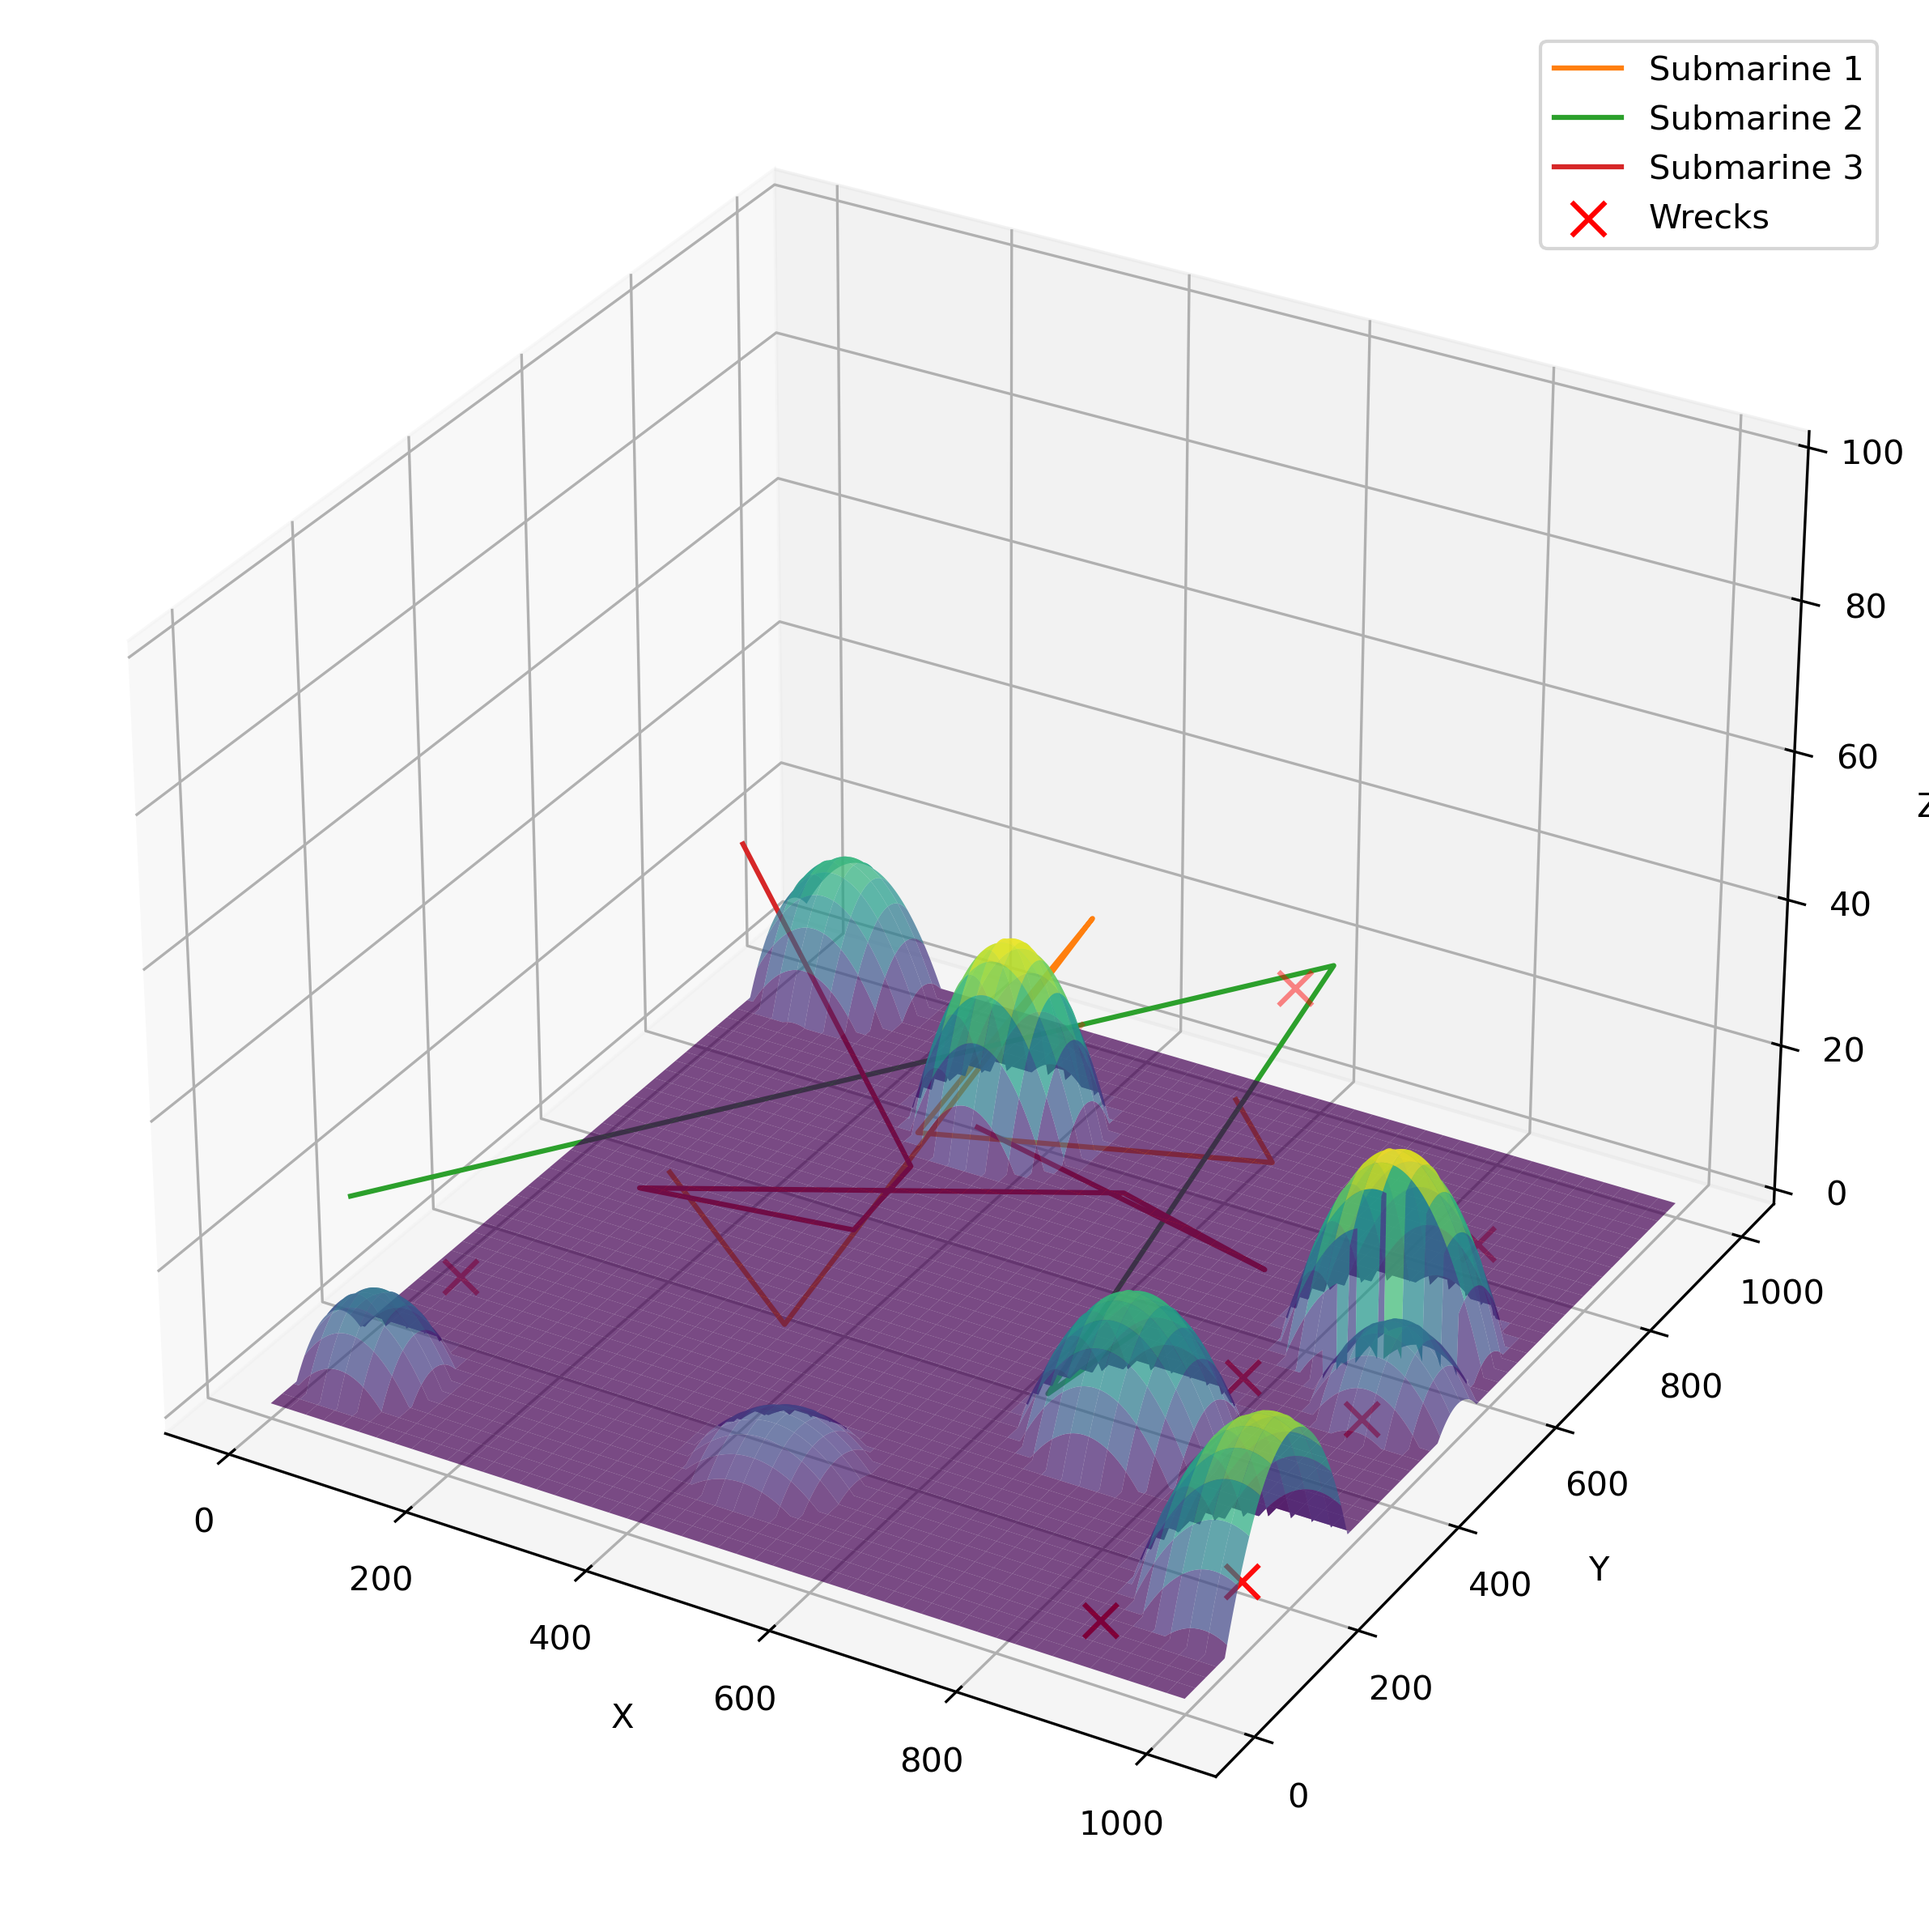
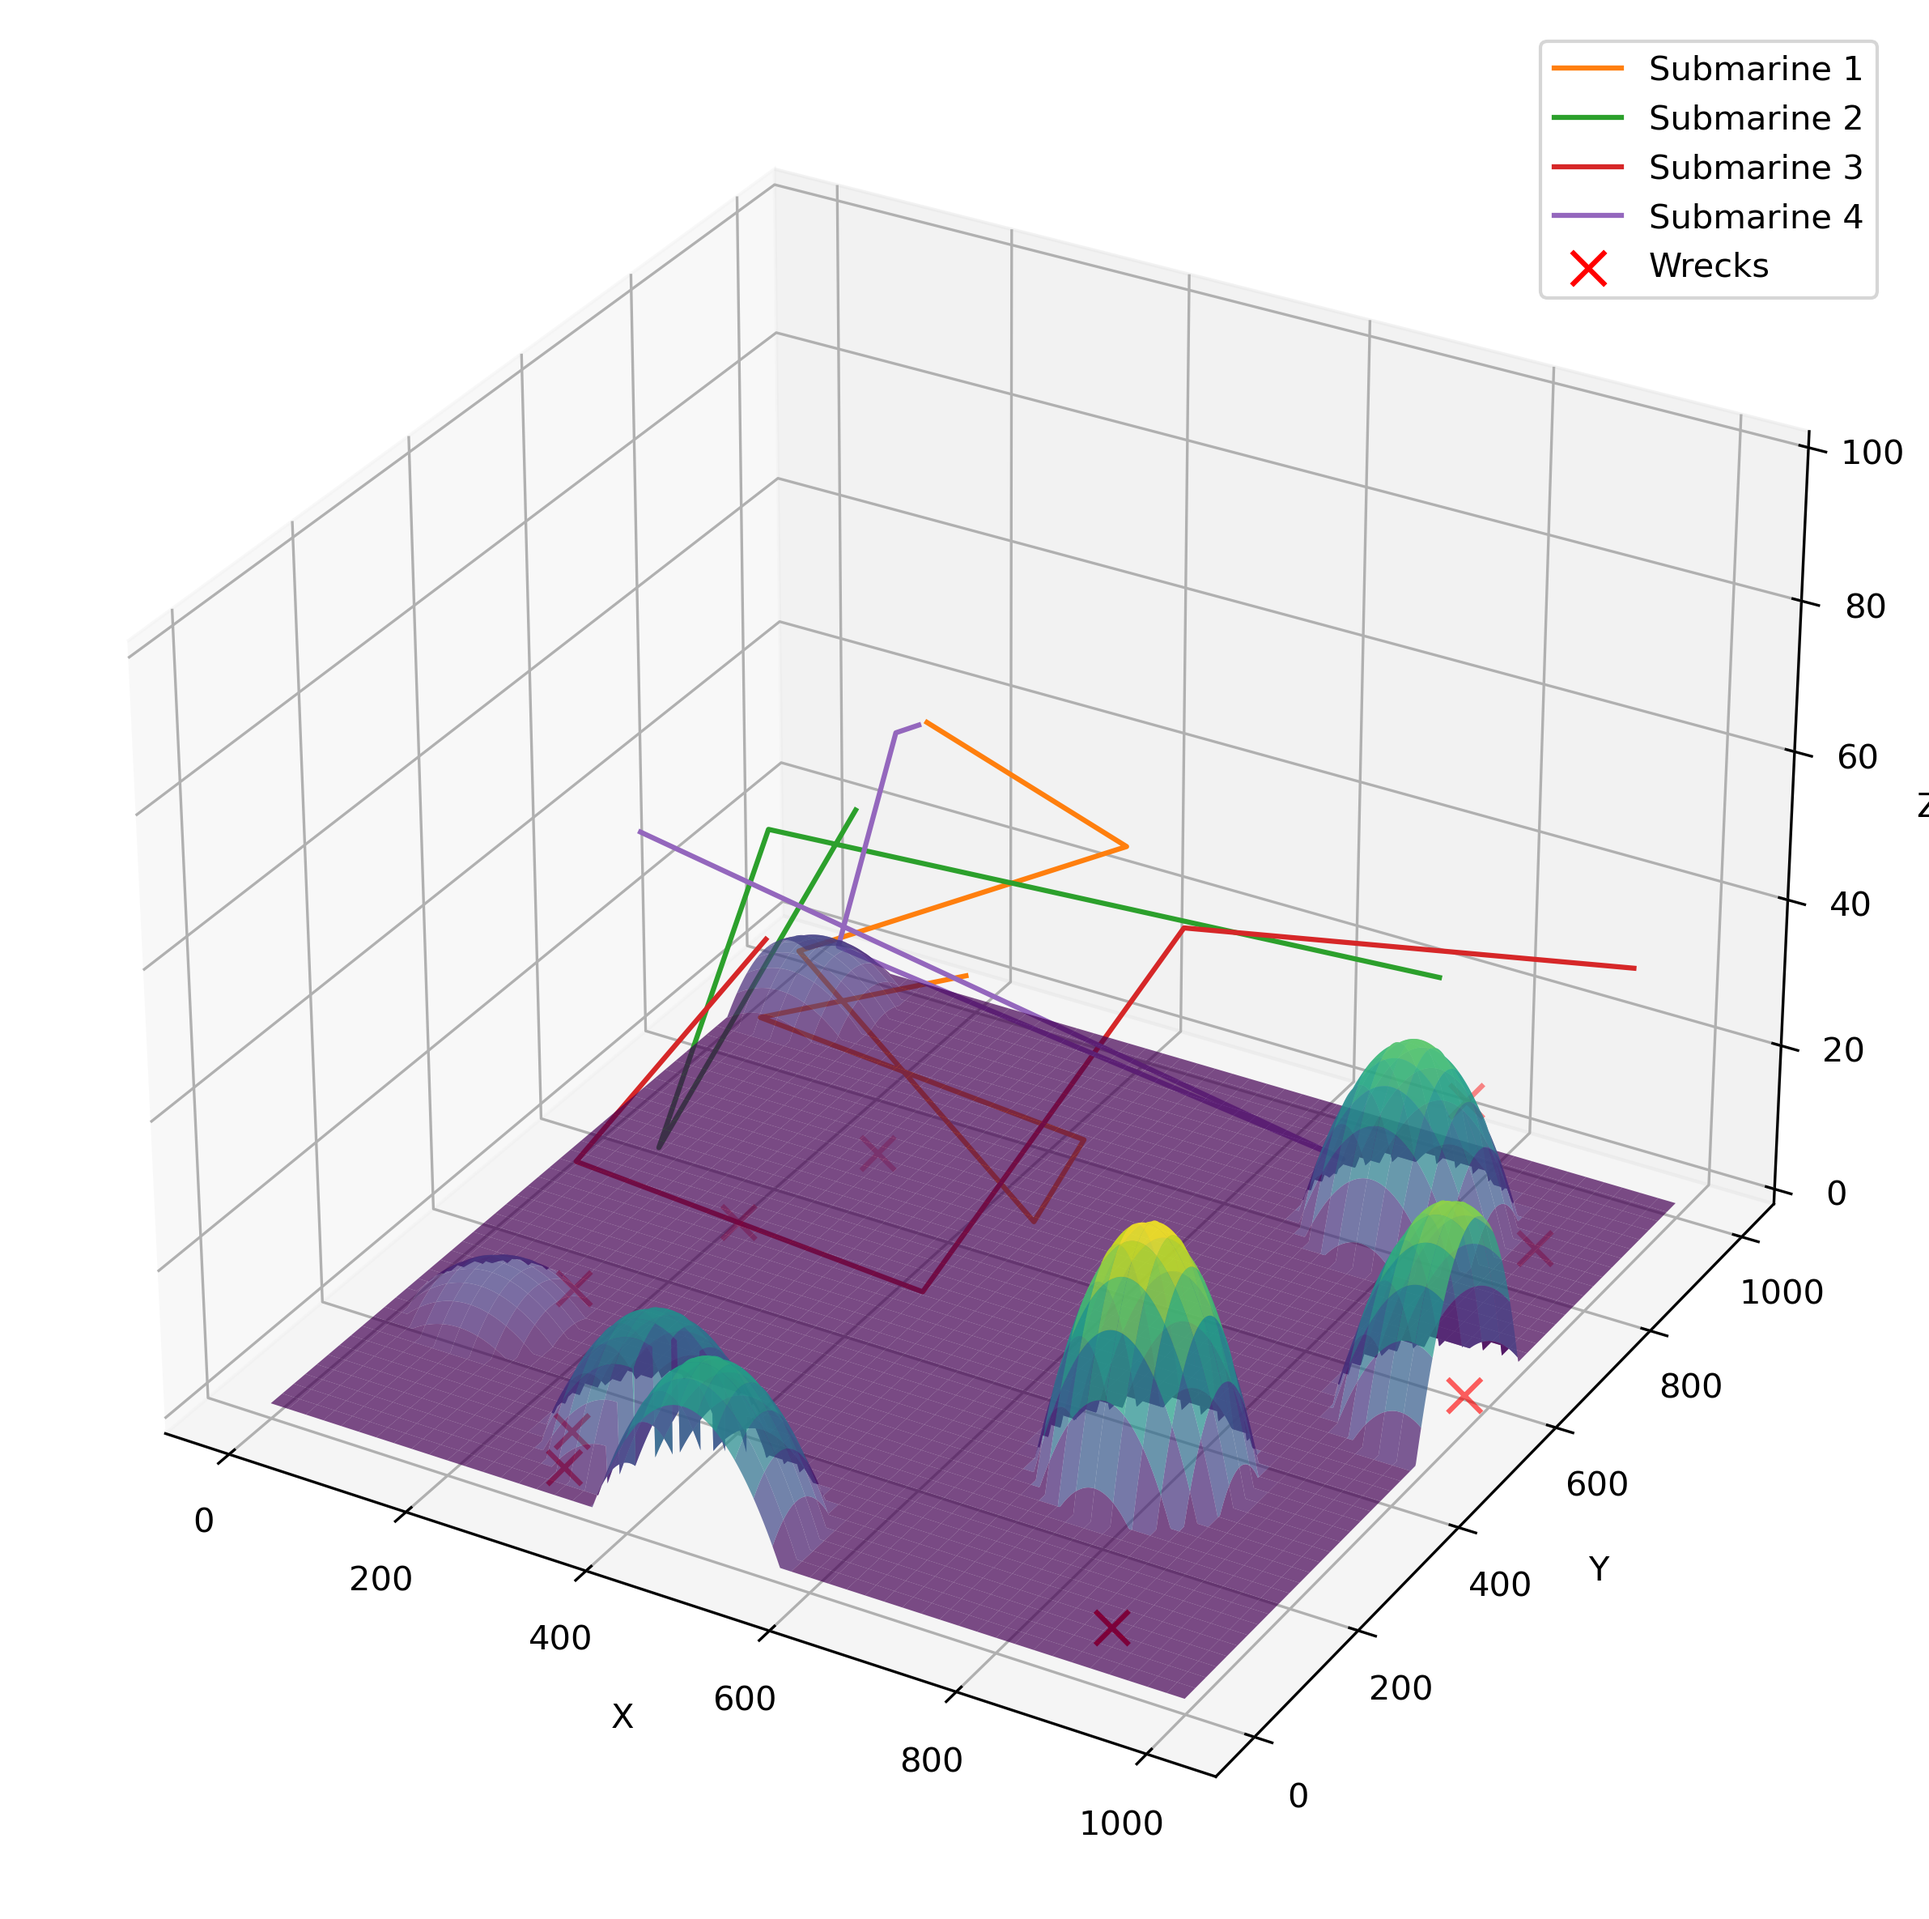
remove redundant files

diff --git a/cmd/run.go b/cmd/run.go
@@ -26,11 +26,12 @@ to quickly create a Cobra application.`,
 		size, _ := cmd.Flags().GetInt("size")
 		hillsNumber, _ := cmd.Flags().GetInt("hills")
 		wrecksNumber, _ := cmd.Flags().GetInt("wrecks")
+		submarine, _ := cmd.Flags().GetInt("submarine")
 
-		fmt.Printf("Running simulation with size:%d, hills:%d, wrecks:%d\n", size, hillsNumber, wrecksNumber)
+		fmt.Printf("Running simulation with size:%d, hills:%d, wrecks:%d, submarine:%d\n", size, hillsNumber, wrecksNumber, submarine)
 
 		pythonScript := exec.Command("python3", "./python/main.py", strconv.Itoa(size), strconv.Itoa(hillsNumber),
-			strconv.Itoa(wrecksNumber))
+			strconv.Itoa(wrecksNumber), strconv.Itoa(submarine))
 		_, err := pythonScript.Output()
 
 		if err != nil {
@@ -48,6 +49,7 @@ func init() {
 	runCmd.Flags().Int("size", 1000, "Seafloor size")
 	runCmd.Flags().Int("hills", 8, "Number of hills")
 	runCmd.Flags().Int("wrecks", 8, "Number of wrecks")
+	runCmd.Flags().Int("submarine", 3, "Number of submarine")
 
 	// Cobra supports Persistent Flags which will work for this command
 	// and all subcommands, e.g.:

diff --git a/python/main.py b/python/main.py
@@ -11,19 +11,25 @@ if __name__ == "__main__":
 
     if len(sys.argv) > 1:
         N = int(sys.argv[1])
-        print(f"N: {N}")
+        # print(f"N: {N}")
 
     hills_num = 8
 
     if len(sys.argv) > 2:
         hills_num = int(sys.argv[2])
-        print(f"hills num: {hills_num}")
+        # print(f"hills num: {hills_num}")
 
     wrecks_num = 8
 
     if len(sys.argv) > 3:
         wrecks_num = int(sys.argv[3])
-        print(f"wrecks num: {wrecks_num}")
+        # print(f"wrecks num: {wrecks_num}")
+
+    submarine_num = 3
+
+    if len(sys.argv) > 4:
+        submarine_num = int(sys.argv[4])
+        # print(f"Submarine: {wrecks_num}")
 
     Z = get_random_sea_floor(hills_num)
     add_wrecks(wrecks_num)
@@ -31,7 +37,7 @@ if __name__ == "__main__":
     wrecks = wrecs_coordinates[:]
     max_hill = np.max(Z)
     subs = []
-    for _ in range(3):
+    for _ in range(submarine_num):
         x = random.randint(0, N - 1)
         y = random.randint(0, N - 1)
         ground = Z[x, y]

diff --git a/README.md b/README.md
@@ -8,5 +8,5 @@ go install
 ```
 - Run the simulation
 ```bash
-oceangate run --size 1000 --hills 8 --wrecks 8
+oceangate run --size 1000 --hills 7 --wrecks 9 --submarine 4
 ```
